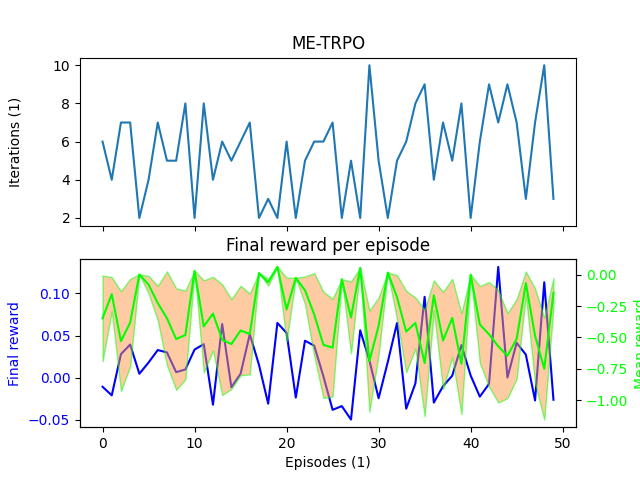
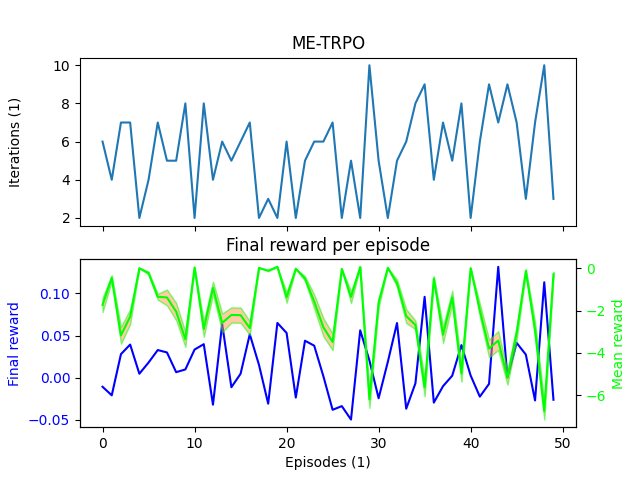
-minor

Changed region(s): [[0.1562, 0.5312, 0.875, 0.875], [0.9062, 0.625, 1.0, 0.8438], [0.9062, 0.5312, 0.9688, 0.5938]]

diff --git a/AE_dyna_results.py b/AE_dyna_results.py
@@ -4,7 +4,7 @@ import matplotlib.pyplot as plt
 import numpy as np
 
 label = "ME-TRPO"
-label = "AE-DYNA"
+# label = "AE-DYNA"
 if label == "ME-TRPO":
     # ME-TRPO results
     project_directory = 'Data_Experiments/2020_10_06_ME_TRPO_stable@FERMI/-nr_steps_15-cr_lr0.0001-crit_it_15-d_0.05-conj_iters_15-n_ep_28-mini_bs_500-m_bs_5-mb_lr_0.001-sim_steps_2000-m_iter_15-ensnr_9-init_45/'
@@ -12,32 +12,64 @@ else:
     # AE-Dyna results
     project_directory = 'Data_Experiments/2020_11_05_AE_Dyna@FERMI/-nr_steps_25-cr_lr-n_ep_13-m_bs_100-sim_steps_3000-m_iter_35-ensnr_3-init_200/'
 
+def read_rewards(rewards):
+    iterations_all = []
+    final_rews_all = []
+    mean_rews_all = []
+    stds = []
+
+
+
+    iterations = []
+    final_rews = []
+    mean_rews = []
+    for i in range(len(rewards)):
+        if len(rewards[i]) > 0:
+            final_rews.append(rewards[i][len(rewards[i]) - 1])
+            iterations.append(len(rewards[i]))
+            try:
+                mean_rews.append(np.sum(rewards[i][1:]))
+            except:
+                mean_rews.append([])
+            stds.append(np.std(rewards[i][1:]))
+
+    # iterations = np.mean(np.array(iterations_all), axis=0)
+    # final_rews = np.mean(np.array(final_rews_all), axis=0)
+    # mean_rews = np.mean(np.array(mean_rews_all), axis=0)
+
+    return np.array(iterations), np.array(final_rews), np.array(mean_rews), np.array(stds)
+
+
+
 def plot_results(data, label='Verification', **kwargs):
         '''plotting'''
         rewards = data['rews']
-        iterations = []
-        finals = []
-        means = []
-        stds = []
+        # iterations = []
+        # finals = []
+        # means = []
+        # stds = []
+        #
+        # for i in range(len(rewards)):
+        #     if (len(rewards[i]) > 1):
+        #         finals.append(rewards[i][-1])
+        #         means.append(np.mean(rewards[i][1:]))
+        #         stds.append(np.std(rewards[i][1:]))
+        #         iterations.append(len(rewards[i]))
+        #
+        # x = range(len(iterations))
+        # iterations = np.array(iterations)
+        # finals = np.array(finals)
+        # means = np.array(means)
+        # stds = np.array(stds)
 
-        for i in range(len(rewards)):
-            if (len(rewards[i]) > 1):
-                finals.append(rewards[i][-1])
-                means.append(np.mean(rewards[i][1:]))
-                stds.append(np.std(rewards[i][1:]))
-                iterations.append(len(rewards[i]))
-
-        x = range(len(iterations))
-        iterations = np.array(iterations)
-        finals = np.array(finals)
-        means = np.array(means)
-        stds = np.array(stds)
-
+        iterations, finals, means, stds = read_rewards(rewards)
+        print(read_rewards(rewards))
         plot_suffix = label  # , Fermi time: {env.TOTAL_COUNTER / 600:.1f} h'
 
         fig, axs = plt.subplots(2, 1, sharex=True)
 
         ax = axs[0]
+        x = range(len(iterations))
         ax.plot(x, iterations)
         ax.set_ylabel('Iterations (1)')
         ax.set_title(plot_suffix)
